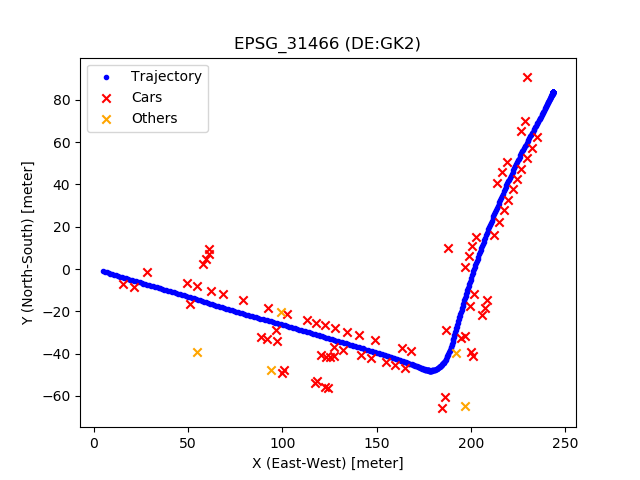
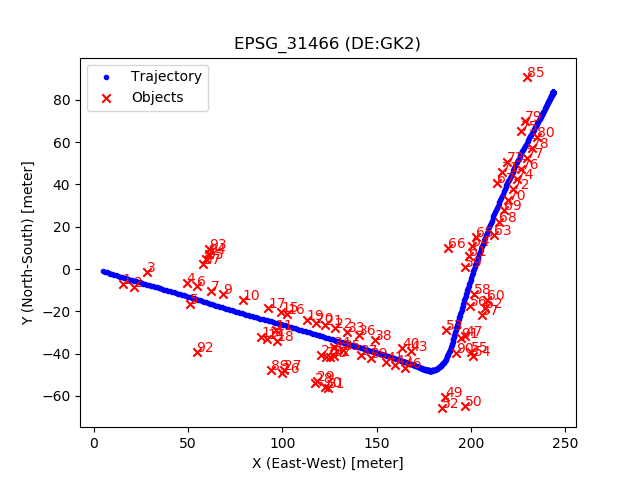
some updated

diff --git a/kitti/3dm/3dm_poses-eval.py b/kitti/3dm/3dm_poses-eval.py
@@ -40,6 +40,14 @@ def umeyama_transform(pt, U, scale):
     return pt
 
 
+def umeyama_transform_inv(pt, U, scale):
+    R, t = U[:, :3], U[:, -1].reshape(3)
+    pt = pt - t
+    pt = np.dot(np.linalg.inv(R), pt)
+    pt = pt / scale
+    return pt
+
+
 def main():
     import argparse
     parser = argparse.ArgumentParser(description='')
@@ -255,19 +263,28 @@ def main():
             utw2 = umeyama_transform(tw2, U, scale)
             uXw  = umeyama_transform(Xw,  U, scale)
 
+            lw1 = tw1 + np.array(location1, 'f') / scale
+            lw2 = tw2 + np.array(location2, 'f') / scale
+            ulw1 = umeyama_transform(lw1, U, scale)
+            ulw2 = umeyama_transform(lw2, U, scale)
+
             results[(track_id, object_type1)].append([
                 utw1[0], utw1[1], utw1[2],
                 utw2[0], utw2[1], utw2[2],
                 uXw[0],  uXw[1],  uXw[2],
+                ulw1[0], ulw1[1], ulw1[2],
+                ulw2[0], ulw2[1], ulw2[2],
             ])
 
     results_center = {}
     for (track_id, object_type), coords in results.items():
         coords = np.array(coords, 'f')
-        utw1 = np.median(coords[:, :3], axis=0)
-        utw2 = np.median(coords[:, 3:6], axis=0)
-        uXw  = np.median(coords[:, 6:9], axis=0)
-        results_center[(track_id, object_type)] = (utw1, utw2, uXw)
+        utw1 = np.median(coords[:, : 3], axis=0)
+        utw2 = np.median(coords[:, 3: 6], axis=0)
+        uXw = np.median(coords[:, 6: 9], axis=0)
+        ulw1 = np.median(coords[:, 9:12], axis=0)
+        ulw2 = np.median(coords[:, 12:], axis=0)
+        results_center[(track_id, object_type)] = (utw1, utw2, uXw, ulw1, ulw2)
 
     # STDOUT
     print(
@@ -275,11 +292,15 @@ def main():
         "utw1_x\tutw1_y\tutw1_z\t"
         "utw2 x\tutw2 y\tutw2_z\t"
         "uXw_x\tuXw_y\tuXw_z"
+        "ulw1_x\tulw1_y\tulw1_z\t"
+        "ulw2 x\tulw2 y\tulw2_z\t"
     )
     for (track_id, object_type), coords in results_center.items():
-        utw1, utw2, uXw = coords
+        utw1, utw2, uXw, ulw1, ulw2 = coords
         print(
             "%d\t%s\t"
+            "%.6f\t%.6f\t%.6f\t"
+            "%.6f\t%.6f\t%.6f\t"
             "%.6f\t%.6f\t%.6f\t"
             "%.6f\t%.6f\t%.6f\t"
             "%.6f\t%.6f\t%.6f"
@@ -288,23 +309,33 @@ def main():
             utw1[0], utw1[1], utw1[2],
             utw2[0], utw2[1], utw2[2],
             uXw[0],  uXw[1],  uXw[2],
+            ulw1[0], ulw1[1], ulw1[2],
+            ulw2[0], ulw2[1], ulw2[2],
             )
         )
         sys.stdout.flush()
 
     # Plot
-    trajectory, cars, not_cars = [], [], []
+    trajectory = []
     for v in poses.values():
         trajectory.append(umeyama_transform(v['Tw'], U, scale))
     trajectory = np.array(trajectory, 'f')
 
     obj_id, obj_pos = [], []
     for (track_id, object_type), coords in results_center.items():
-        _, _, uXw = coords
+        _, _, uXw, _, _ = coords
         uXw += [0., 0., args.camera_height]
         obj_id.append(track_id)
         obj_pos.append(uXw.tolist())
     obj_pos = np.array(obj_pos, 'f')
+
+    lab_id, lab_pos = [], []
+    for (track_id, object_type), coords in results_center.items():
+        _, _, _, ulw1, _ = coords
+        ulw1 += [0., 0., args.camera_height]
+        lab_id.append(track_id)
+        lab_pos.append(ulw1.tolist())
+    lab_pos = np.array(lab_pos, 'f')
 
     fig = plt.figure()
     ax = fig.add_subplot(111, projection='3d')
@@ -312,12 +343,15 @@ def main():
     ax.scatter(obj_pos[:, 0], obj_pos[:, 1], obj_pos[:, 2], c='red', marker='x')
     for tid, pos in zip(obj_id, obj_pos):
         ax.text(pos[0], pos[1], pos[2], tid, c='red')
+    ax.scatter(lab_pos[:, 0], lab_pos[:, 1], lab_pos[:, 2], c='green', marker='x')
+    for tid, pos in zip(lab_id, lab_pos):
+        ax.text(pos[0], pos[1], pos[2], tid, c='green')
     ax.set_xlabel('X (East-West) [meter]')
     ax.set_ylabel('Y (North-South) [meter]')
     ax.set_zlabel('Z (Height) [meter]')
     plt.title("EPSG_%s (DE:GK2)" % 31466)
-    plt.legend(['trajectory', 'objects'], loc="best")
-    plt.savefig("result-3dm_poses-3d.png")
+    plt.legend(['trajectory', 'objects', 'gt (uncertainty)'], loc="best")
+    plt.savefig("result-3dm_poses-3d-eval.png")
     plt.show()
     plt.close()
 
@@ -327,11 +361,14 @@ def main():
     ax.scatter(obj_pos[:, 0], obj_pos[:, 1], c='red', marker='x')
     for tid, pos in zip(obj_id, obj_pos):
         ax.annotate(tid, xy=(pos[0], pos[1]), c='red')
+    ax.scatter(lab_pos[:, 0], lab_pos[:, 1], c='green', marker='x')
+    for tid, pos in zip(lab_id, lab_pos):
+        ax.annotate(tid, xy=(pos[0], pos[1]), c='green')
     ax.set_xlabel('X (East-West) [meter]')
     ax.set_ylabel('Y (North-South) [meter]')
     plt.title("EPSG_%s (DE:GK2)" % 31466)
-    plt.legend(['trajectory', 'objects'], loc="best")
-    plt.savefig("result-3dm_poses-xy.png")
+    plt.legend(['trajectory', 'objects', 'gt (uncertainty)'], loc="best")
+    plt.savefig("result-3dm_poses-xy-eval.png")
     plt.show()
     plt.close()
 
@@ -341,11 +378,14 @@ def main():
     ax.scatter(obj_pos[:, 0], obj_pos[:, 2], c='red', marker='x')
     for tid, pos in zip(obj_id, obj_pos):
         ax.annotate(tid, xy=(pos[0], pos[2]), c='red')
+    ax.scatter(lab_pos[:, 0], lab_pos[:, 2], c='green', marker='x')
+    for tid, pos in zip(lab_id, lab_pos):
+        ax.annotate(tid, xy=(pos[0], pos[2]), c='green')
     ax.set_xlabel('X (East-West) [meter]')
     ax.set_ylabel('Z (Height) [meter]')
     plt.title("EPSG_%s (DE:GK2)" % 31466)
-    plt.legend(['trajectory', 'objects'], loc="best")
-    plt.savefig("result-3dm_poses-xz.png")
+    plt.legend(['trajectory', 'objects', 'gt (uncertainty)'], loc="best")
+    plt.savefig("result-3dm_poses-xz-eval.png")
     plt.show()
     plt.close()
 

diff --git a/kitti/3dm/README.md b/kitti/3dm/README.md
@@ -151,7 +151,7 @@ R[0,0] R[0,1] R[0,2] t[0] R[1,0] R[1,1] R[1,2] t[1] R[2,0] R[2,1] R[2,2] t[2] s
 - Estimate 3D position using camera poses. (`frameTrajectory.txt`)
 
 ```
-python 3dm_poses.py \
+python 3dm_poses-eval.py \
 --label_file datasets/data_tracking/data_tracking_label_2/training/label_02/0001.txt \
 --calib_file datasets/data_tracking/data_tracking_calib/training/calib/0001.txt \
 --pose_file outputs/frameTrajectory.txt \
@@ -189,4 +189,4 @@ track_id	object_type	utw1_x	utw1_y	utw1_z	utw2 x	utw2 y	utw2_z	uXw_x	uXw_y	uXw_z
 
 |3D|X-Y|X-Z|
 |---|---|---|
-|![3D](outputs/result-3dm_poses-3d.png)|![X-Y](outputs/result-3dm_poses-xy.png)|![X-Z](outputs/result-3dm_poses-xz.png)|
+|![3D](outputs/result-3dm_poses-3d-eval.png)|![X-Y](outputs/result-3dm_poses-xy-eval.png)|![X-Z](outputs/result-3dm_poses-xz-eval.png)|
